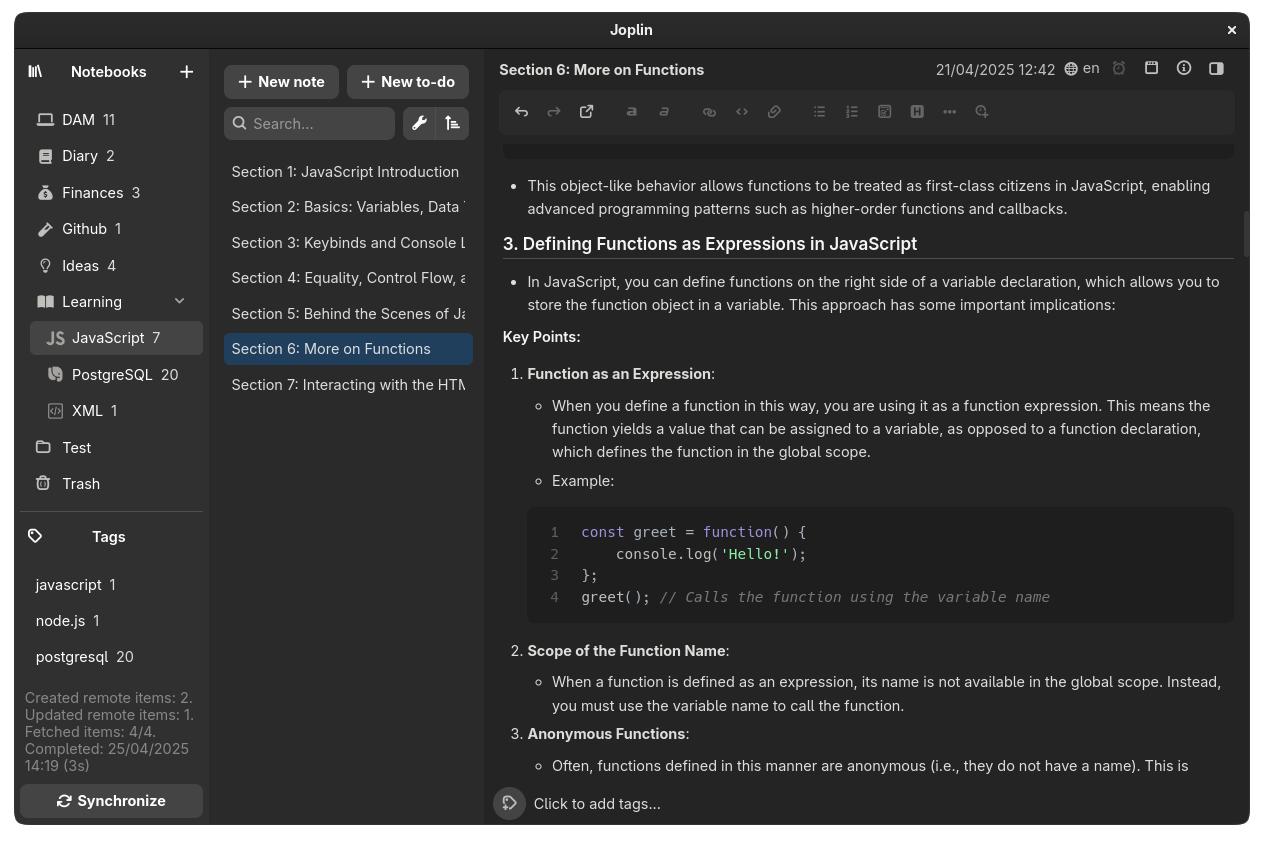
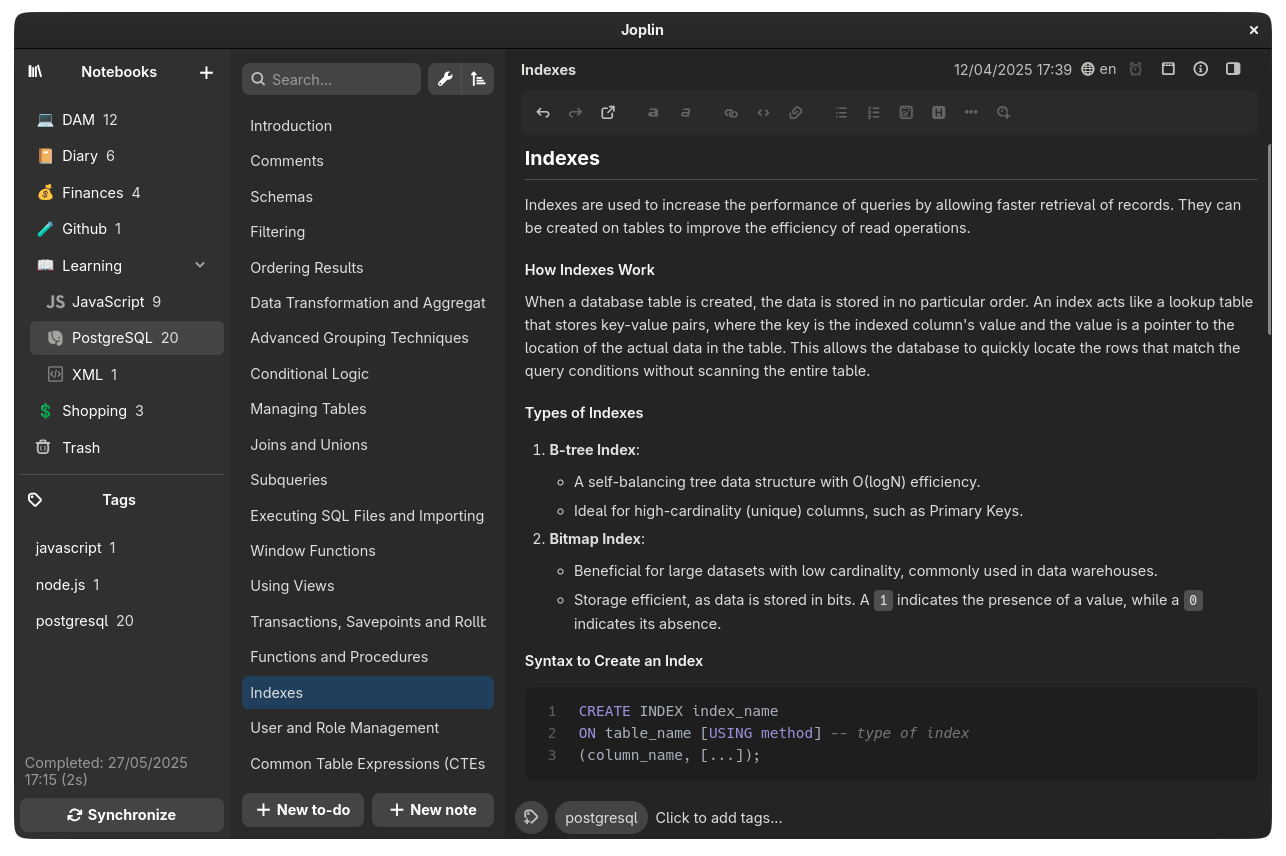
Fix: Adjust header bar title positioning in notebook modals Update: Emoji picker and modal input styles Rearrange: Note list sidebar controls

diff --git a/src/userchrome.css b/src/userchrome.css
@@ -1,1 +1,1 @@
[2 lines of base64/hex data omitted]

diff --git a/sass/userchrome.scss b/sass/userchrome.scss
@@ -113,11 +113,8 @@ span[role="cell"] a:not([style*="text-decoration: underline"]) {
 
   &.-newfolder {
     background: transparent !important;
-    top: calc(sp.$spacing-xxs) !important;
-    right: 0 !important;
-    padding-inline-end: revert !important;
-    padding-top: revert !important;
-    height: revert !important;
+    padding: unset !important;
+    height: unset !important;
   }
 
   // Hide "collapse all" button
@@ -137,11 +134,16 @@ span[role="cell"] a:not([style*="text-decoration: underline"]) {
 
 // New note and to-do button styles
 .new-note-todo-buttons {
+  bottom: sp.$spacing-lm !important;
+  direction: rtl !important;
   gap: sp.$spacing !important;
-  margin: 0 0 sp.$spacing 0 !important;
+  position: absolute !important;
+  width: calc(100% - sp.$spacing-lm) !important;
+  z-index: 1 !important;
 
   button.new-note-button,
   button.new-todo-button {
+    direction: ltr !important;
     min-width: min-content !important;
   }
 }
@@ -288,24 +290,15 @@ span[role="cell"] a:not([style*="text-decoration: underline"]) {
    NOTES SIDEBAR
    ================== */
 
-.rli-noteList div[role="navigation"] > div {
-  margin: sp.$spacing-lg sp.$spacing-md !important; // Set general spacing around containers
-
-  &.note-list {
-    margin-top: 0 !important;
-
-    .notes {
-      margin: 0 10px 0 0 !important;
-    }
-  }
+.notes {
+  margin: 0 sp.$spacing 0 0 !important;
 }
 
 .cAxSyf {
-  // Remove padding and background of note controls and force flex direction
+  // Edit spacing and remove background of note controls
   background: transparent !important;
+  margin: sp.$spacing-lm sp.$spacing-sm 0 sp.$spacing !important;
   padding: 0 !important;
-  flex-direction: column !important;
-  gap: 0 !important;
 }
 
 // Notes search bar
@@ -321,14 +314,7 @@ span[role="cell"] a:not([style*="text-decoration: underline"]) {
     flex-direction: row-reverse !important;
 
     input {
-      background: transparent !important;
-      border: none !important;
-      max-height: none !important;
-      height: 100% !important;
-      font-size: fnt.$font-size !important;
-      font-weight: fnt.$font-weight !important;
-      color: clr.$light-3 !important;
-      padding: 0 !important;
+      @include mixInput.input;
     }
 
     button {
@@ -354,6 +340,7 @@ span[role="cell"] a:not([style*="text-decoration: underline"]) {
 // Note list
 .note-list {
   background: transparent !important; // Remove background of note list
+  margin: sp.$spacing-lm sp.$spacing 60px !important;
 
   .emptylist {
     // Remove background of empty note list message
@@ -470,7 +457,6 @@ div.note-editor-wrapper[role="main"] {
     > span {
       font-size: 0.9em !important;
       line-height: 1 !important;
-      padding: 0 0 3px !important;
     }
 
     &.-has-title {
@@ -741,7 +727,7 @@ span.cm-image {
       background: transparent !important;
 
       > div {
-        border-bottom: none !important;
+        border-bottom: 0 !important;
 
         > div {
           color: clr.$light-3 !important;
@@ -787,13 +773,14 @@ span.cm-image {
       position: relative !important;
       background: transparent !important;
       border-radius: vars.$window-radius !important;
+      box-shadow: 0px 0px 18px 3px clr.$modal-backdrop-color !important;
       min-width: unset !important;
       max-width: unset !important;
       width: inherit !important;
       display: flex !important;
       flex-direction: column !important;
 
-      > .bXOgJJ {
+      > h1 {
         @include mixModal.positionModalTitle;
       }
 
@@ -805,8 +792,8 @@ span.cm-image {
         background: transparent !important;
 
         .form-input-group {
-          input {
-            @include mixInput.input;
+          > input {
+            @include mixInput.modalInput;
           }
 
           button:not(
@@ -820,13 +807,72 @@ span.cm-image {
           }
         }
 
-        .emoji-picker.light {
+        .foldericon {
+          background: transparent !important;
+          border: 0 !important;
+        }
+
+        .emoji-picker {
           background: clr.$modal-bg-color !important;
           border-radius: vars.$window-radius !important;
           border: none !important;
+          box-shadow: 0px 0px 18px 3px clr.$modal-backdrop-color !important;
 
-          .emoji-picker__preview {
-            border-top: 1px solid clr.$separator-color !important;
+          &__preview {
+            display: none !important;
+          }
+
+          &__category {
+            &-buttons {
+              border-top: 1px solid btn.$btn-separator !important;
+              height: sp.$spacing-xxl !important;
+              margin: sp.$spacing-xs sp.$spacing-xs 0 !important;
+            }
+            &-button {
+              height: 100% !important;
+              border: 0 !important;
+              box-sizing: border-box !important;
+              padding: 2px 0 0 !important;
+            }
+            &-button.active {
+              color: clr.$blue-1 !important;
+              border-bottom: 0 !important;
+              border-top: 3px solid btn.$btn-bg-primary !important;
+              padding: 0 !important;
+            }
+            &-name {
+              display: none !important
+            }
+          }
+
+          &__search-container {
+            margin: sp.$spacing-sm sp.$spacing-md !important;
+            .emoji-picker__search {
+              @include mixInput.modalInput;
+              padding: .5em 2.25em 0.5em 26px !important
+            }
+
+            .emoji-picker__search-icon {
+              left: 0 !important;
+              min-width: 28px !important;
+              right: unset !important;
+              text-align: center !important;
+              top: calc(50% - 0.4em) !important;
+            }
+          }
+
+          &__content {
+            height: unset !important;
+            padding: sp.$spacing-md 0 0 !important;
+          }
+
+          &__emoji {
+            @include mixBtn.buttonModal;
+
+            &-area {
+              display: flex !important;
+              flex-direction: column-reverse !important;
+            }
           }
         }
       }

diff --git a/sass/components/_components.mixins.inputs.scss b/sass/components/_components.mixins.inputs.scss
@@ -4,45 +4,25 @@
 @use '../colors' as clr;
 @use 'components.buttons' as btn;
 
+
 @mixin input {
-    background: btn.$btn-bg !important;
-    border: 3px solid btn.$btn-bg !important;
+    background: transparent !important;
+    border: none !important;
+    max-height: none !important;
+    height: 100% !important;
+    font-size: fnt.$font-size !important;
+    font-weight: fnt.$font-weight !important;
+    color: clr.$light-3 !important;
+    padding: 0 !important;
+}
+
+@mixin modalInput {
+    @include input;
+    background: clr.$headerbar-bg-color !important;
+    border: 3px solid clr.$headerbar-bg-color !important;
     border-radius: btn.$btn-radius !important;
+    box-sizing: border-box !important;
     height: btn.$btn-size-toolbar !important;
     min-height: btn.$btn-size-toolbar !important;
-    min-width: 120px !important;
-    box-sizing: border-box !important;
-  
-    div {
-      flex-direction: row-reverse !important;
-  
-      input {
-        background: transparent !important;
-        border: none !important;
-        max-height: none !important;
-        height: 100% !important;
-        font-size: fnt.$font-size !important;
-        font-weight: fnt.$font-weight !important;
-        color: clr.$light-3 !important;
-        padding: 0 !important;
-      }
-  
-      button {
-        border-top-right-radius: 0 !important;
-        border-bottom-right-radius: 0 !important;
-        position: relative !important;
-        min-height: 0 !important;
-        min-width: 28px !important;
-        background: transparent !important;
-  
-        span {
-          display: block !important;
-          line-height: 2 !important;
-        }
-      }
-    }
-  
-    &:focus-within {
-      border: 3px solid clr.$blue-2 !important;
-    }
+    padding: 0 6px !important;
 }

diff --git a/sass/components/_components.mixins.buttons.scss b/sass/components/_components.mixins.buttons.scss
@@ -60,3 +60,12 @@
         background: btn.$btn-bg-light !important;
     }
 }
+
+@mixin buttonModal() {
+    @include buttonDefault;
+    background-color: clr.$modal-row-bg-color !important;
+
+    &:hover {
+        background-color: clr.$modal-row-bg-color-hover !important;
+    }
+}

diff --git a/sass/components/_components.mixins.modals.scss b/sass/components/_components.mixins.modals.scss
@@ -10,7 +10,8 @@
     position: absolute !important;
     transform: translate(-50%, -50%) !important;
     left: 50% !important;
-    top: 11% !important;
+    top: 10% !important;
+    margin: 0 !important;
 }
 
 @mixin headerBar() {

diff --git a/sass/_spacing.scss b/sass/_spacing.scss
@@ -9,6 +9,7 @@ $spacing-xxs: 2px;
 $spacing-xs: 4px;
 $spacing-sm: 6px;
 $spacing-md: 10px;
+$spacing-lm: 14px;
 $spacing-lg: 16px;
 $spacing-xxl: 40px;
 

diff --git a/README.md b/README.md
@@ -9,10 +9,6 @@
 <p align="center">
   <img src="https://raw.githubusercontent.com/ivfrost/joplin-adwaita-theme/refs/heads/main/img/preview.png" alt="Preview Image"/>
 </p>
-<p align="center">
-  <img src="https://raw.githubusercontent.com/ivfrost/joplin-adwaita-theme/refs/heads/main/img/preview.gif" alt="Preview GIF"/>
-</p>
-
 
 ## Installation
 1. Download the latest release.
@@ -25,6 +21,13 @@
    - [Outline](https://joplinapp.org/plugins/plugin/outline/)
    - [Better Code Blocks](https://joplinapp.org/plugins/plugin/com.ckant.joplin-plugin-better-code-blocks/)
    - [Github Alerts](https://joplinapp.org/plugins/plugin/com.github.alan-null.joplin-plugin-github-alerts/) 
+
+## Notes
+- For development purposes, it's convenient creating hard links for the compiled stylesheets in the joplin config folder. From the root of the repository, run:
+	- `ln ./src/userchrome.css ~/.config/joplin-desktop/`
+	- `ln ./src/userstyle.css ~/.config/joplin-desktop/`
+- (Fedora) If the emojis appear to not be rendering properly, you can try running this command  to install missing dependencies: `sudo dnf group install -y input-methods`
+	-  Source: [Joplin's Github Repository - Issues](https://github.com/laurent22/joplin/issues/10683)
 
 ## Resources
 - [GNOME Human Interface Guidelines](https://developer.gnome.org/hig/index.html)
